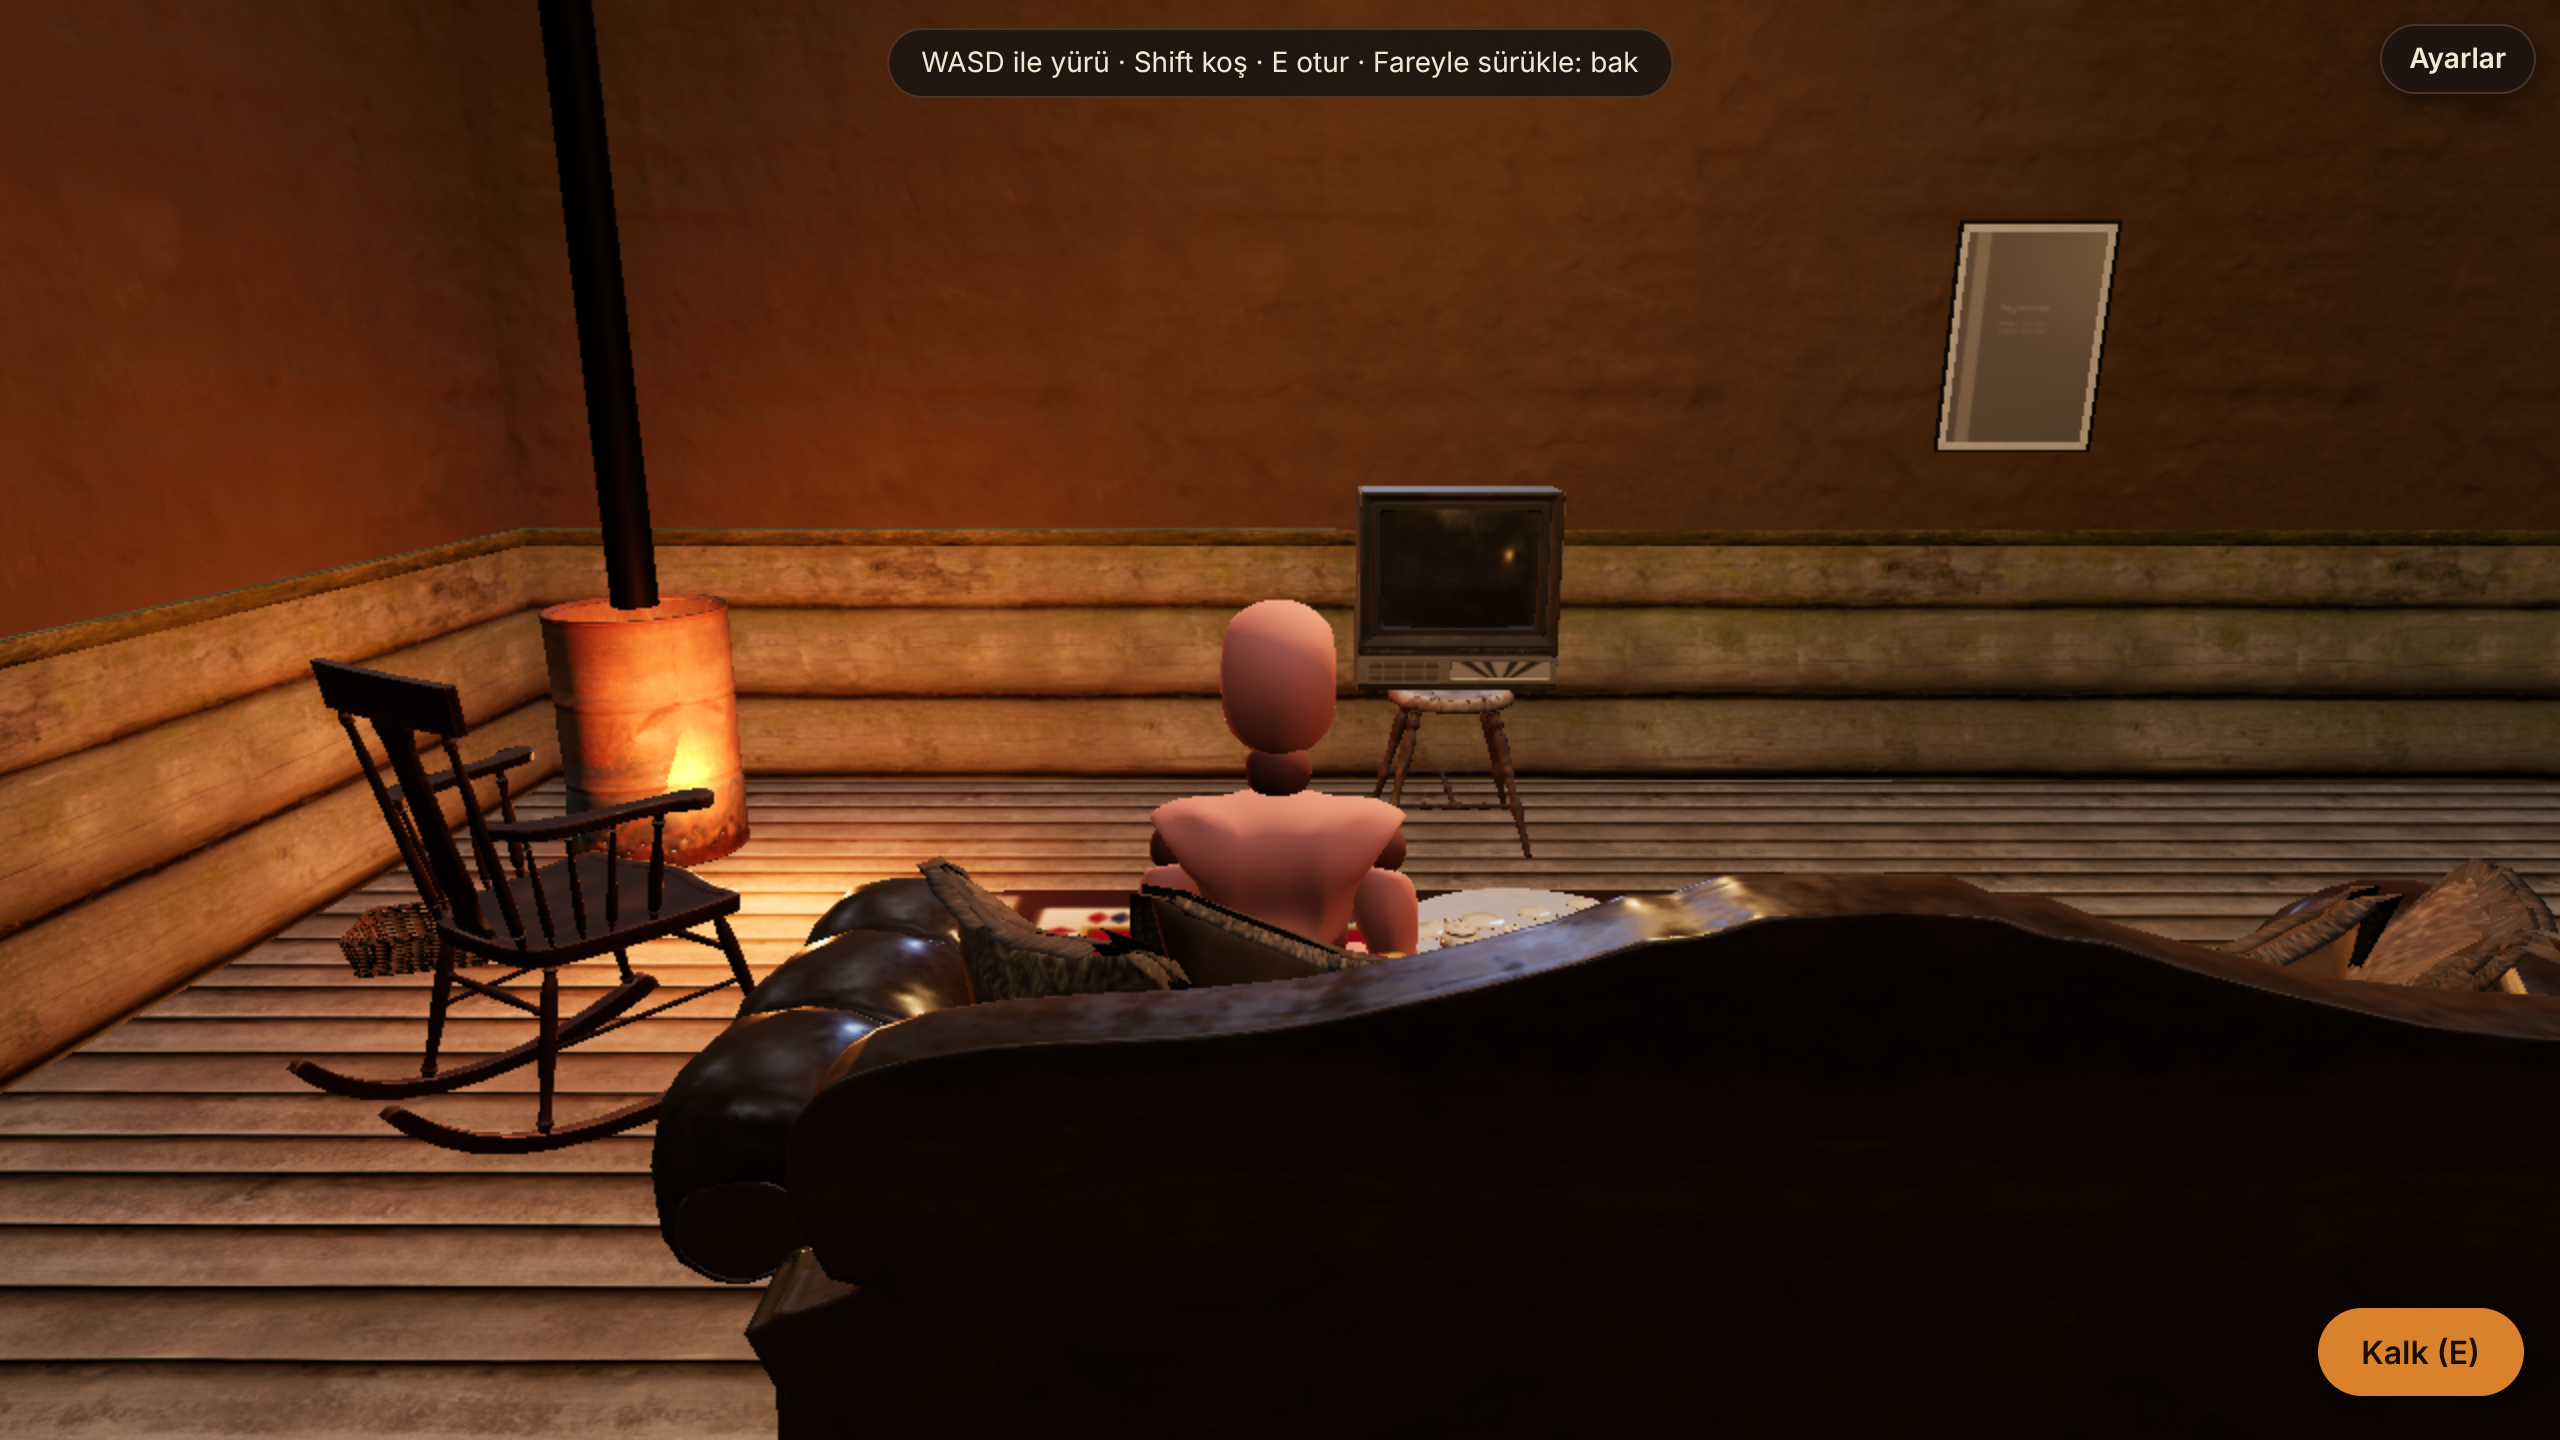
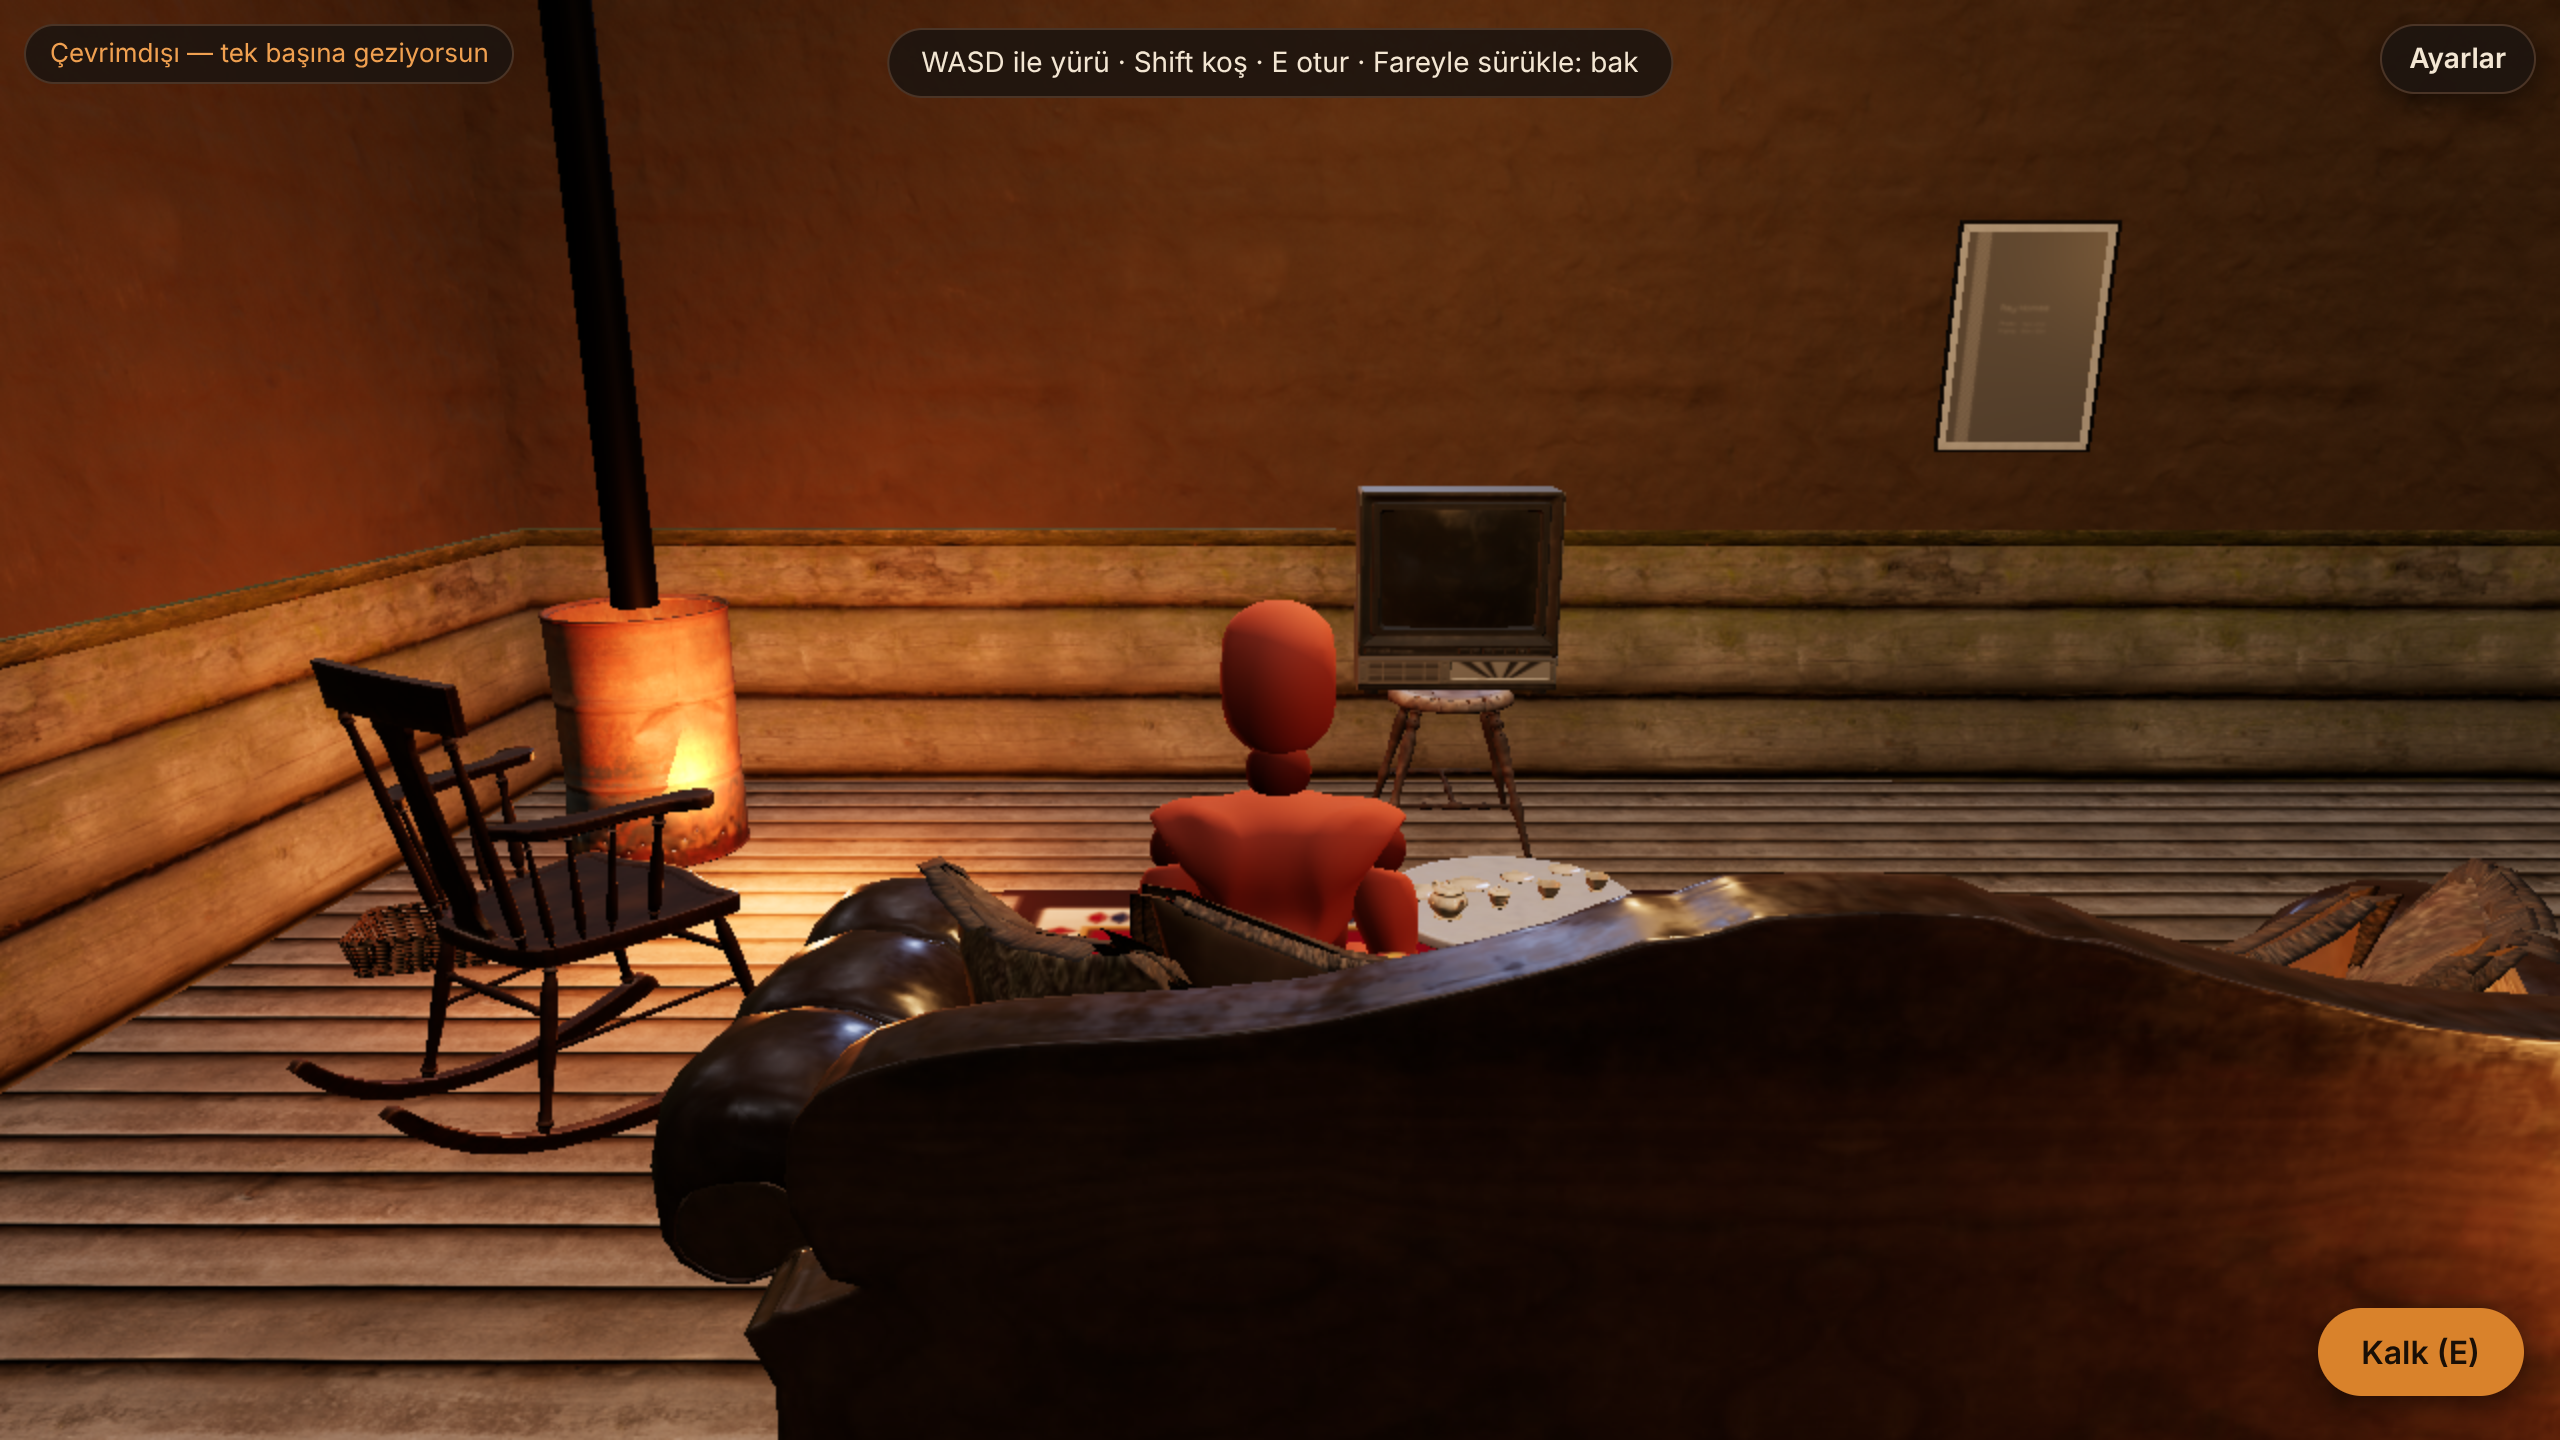
test: two-player e2e; deploy config and M2 notes
Lamp stool moved behind the sofa (it blocked the only short path to the
sofa corner). e2e scripts now stop their servers' whole process group.

Claude-Session: https://claude.ai/code/session_011VdLquJE4k3eGmzBbgCpY7

diff --git a/server/src/SalonRoom.ts b/server/src/SalonRoom.ts
@@ -87,7 +87,6 @@ export class SalonRoom extends Room<{ state: SalonState }> {
     const now = Date.now();
     const ok = msg && typeof msg === 'object' && validateMove(t, msg, (now - t.at) / 1000, COLLIDERS);
     if (!ok) {
-      if (process.env.DEBUG_MOVES) console.log('reject', JSON.stringify({ from: [t.x, t.z], to: msg, dt: (now - t.at) / 1000 }));
       client.send('correct', { x: t.x, z: t.z });
       return;
     }
